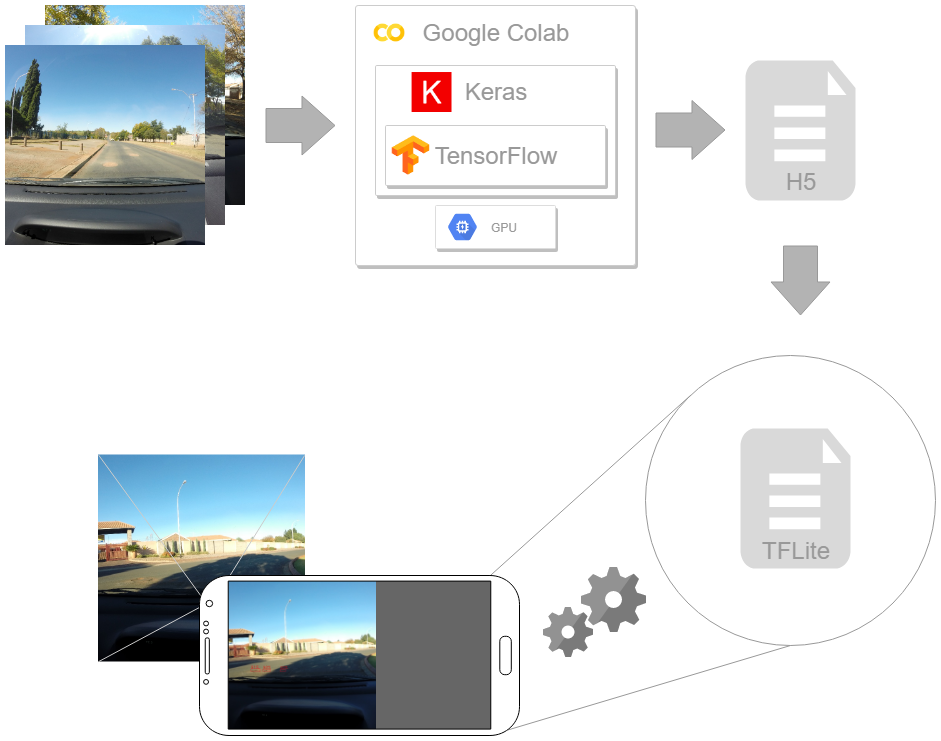
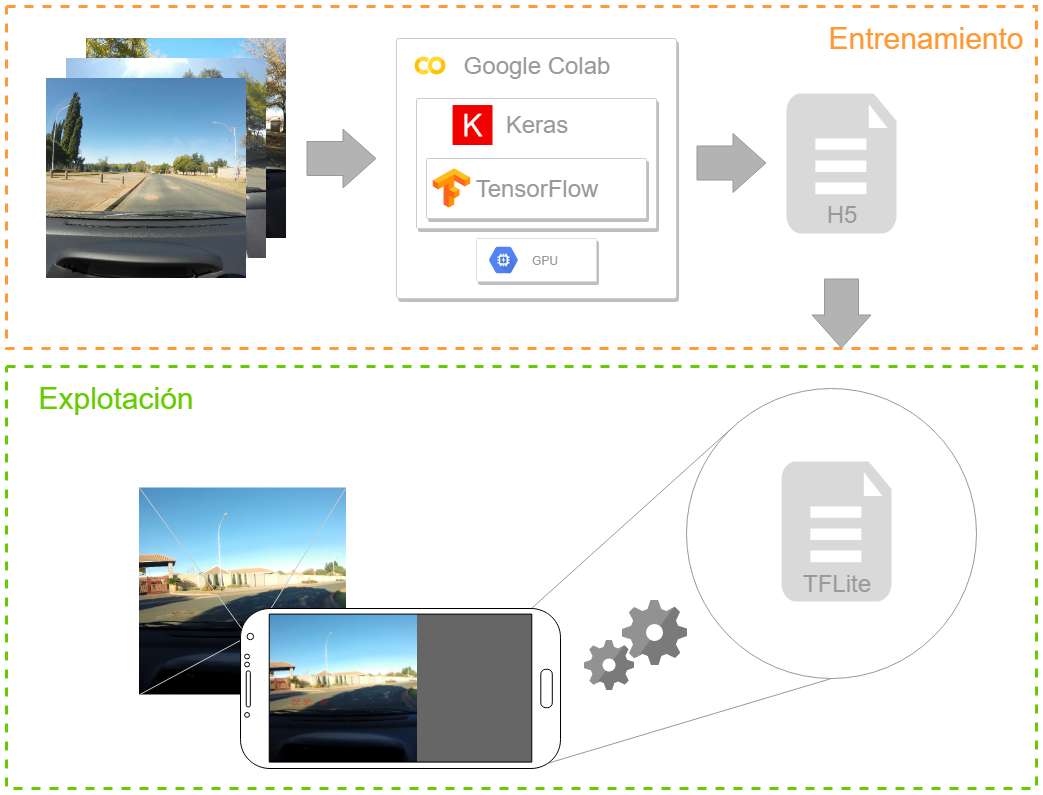
finished section 3 'Definición de requisitos y análisis'

diff --git a/s3.tex b/s3.tex
@@ -6,7 +6,14 @@
 % (que se quiere hacer definido de una manera formal)
 % descripción del caso de uso
 
-{\color{red} \textbf{!!! TODO}}
+A continuación se enumeran los requisitos para el desarrollo del trabajo:
+
+\begin{itemize}
+	\item Implementar y entrenar una red neuronal que genere un modelo capaz de detectar baches en el asfalto a partir de imágenes
+	\item El modelo deberá ser capaz de procesar una imagen en un tiempo lo más cercano posible a 1/30s, para ser capaz de procesar video en tiempo real
+	\item El modelo deberá poderse ejecutar en un dispositivo móvil Android
+	\item El modelo será alimentado directamente con la salida de la cámara del dispositivo móvil
+\end{itemize}
 
 \subsection{Arquitectura}
 
@@ -20,11 +27,23 @@
 	\label{fig:architecture}
 \end{figure}
 
-{\color{red} \textbf{!!! TODO}}
+Como se puede observar en la figura \ref{fig:architecture}, la arquitectura está dividida en dos partes. Una parte se utiliza para entrenar la red neuronal y generar el modelo. La otra parte se utiliza para explotar el modelo generado.
+
+La parte utilizada durante el entrenamiento requiere de un hardware potente y del uso de GPU para reducir los tiempos de entrenamiento. La explotación del modelo, al contrario de lo que sucede con el entrenamiento, no requiere de un hardware potente y se ejecuta directamente en un dispositivo móvil en posesión del usuario final. El modelo obtenido después de la fase de entrenamiento, se transforma a un formato que está pensado para ser ejecutado en dispositivos con recursos limitados.
 
 \subsection{Tecnologías}
 
 % (Esto es poco más que enumerar lo que vas a utilizar)
 % python, keras, tensorflow, opencv, java, yolo v3, yolo v3 tiny
 
-{\color{red} \textbf{!!! TODO}}
+Todo el proyecto ha sido desarrollado utilizando Python, salvo la aplicación Android, que ha sido desarrollada en Java.
+
+Para el procesamiento de imágenes se ha utilizado el paquete Python OpenCV. Este procesamiento incluye la lectura de imágenes en formato jpg, recorte, reescalado y volteo de las imágenes, visualización de las predicciones obtenidas, etc.
+
+Para la implementación de la red neuronal se ha utilizado Keras, que es un envoltorio sobre Tensorflow que simplifica su uso. Dada una arquitectura de red neuronal, con Keras es muy sencillo definir las capas y sus interconexiones. Además Keras proporciona clases que facilitan la definición de un conjunto de imágenes como entrada de la red neuronal. Keras también proporciona una serie de eventos con la idea de poder suscribirse a los mismos y poder reaccionar en consecuencia, como por ejemplo, suscribirse al evento de final de época y salvar el modelo si ha mejorado con respecto a la época anterior.
+
+Las redes neuronales utilizadas en el proyecto no se han implementado de cero, sino que se ha partido de dos implementaciones en Keras de \textit{YOLO v3} \cite{s3_yolov3_orig} y \textit{YOLO v3 Tiny} \cite{s3_yolov3tiny_orig}. Se han unido ambas implementaciones en una única \cite{s3_yolo_dicastro} que soporta ambos tipos de red YOLO. También se han realizado múltiples desarrollos para mejorar la funcionalidad, como por ejemplo: soporte en formato txt de las etiquetas de las imágenes, nuevos parámetros de configuración para mejorar el resultado del entrenamiento, etc.
+
+Para la ejecución de los modelos obtenidos en un dispositivo móvil de ha utilizado TFLite. Este paquete permite transformar distintos tipos de modelo (keras, tensorflow) a formato TFLite y ejecutar estos modelos en dispositivos con recursos reducidos. En las últimas versiones de esta librería se soporta, aunque de forma experimental, el uso de la GPU del dispositivo.
+
+La aplicación móvil ha sido desarrollada en java para la plataforma Android. TFLite dispone de una librería java que simplifica la carga del modelo y su ejecución.
